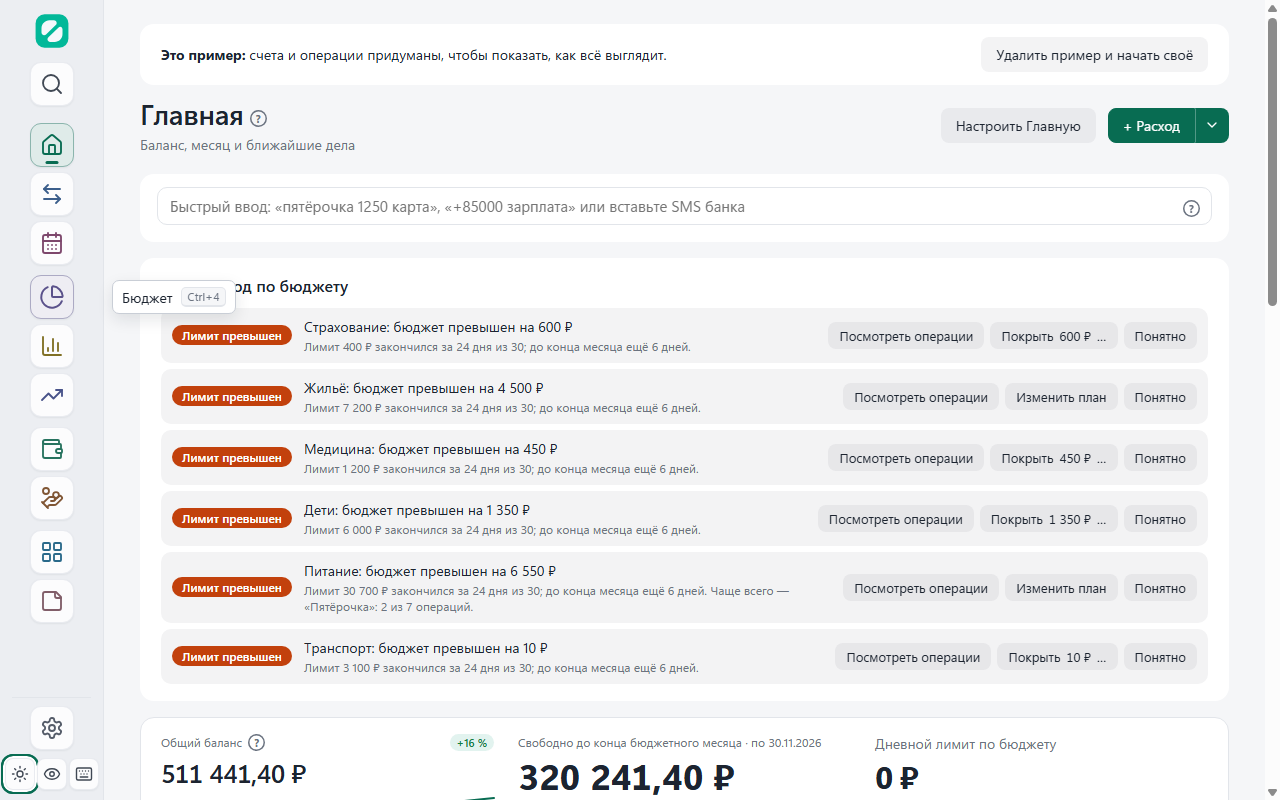
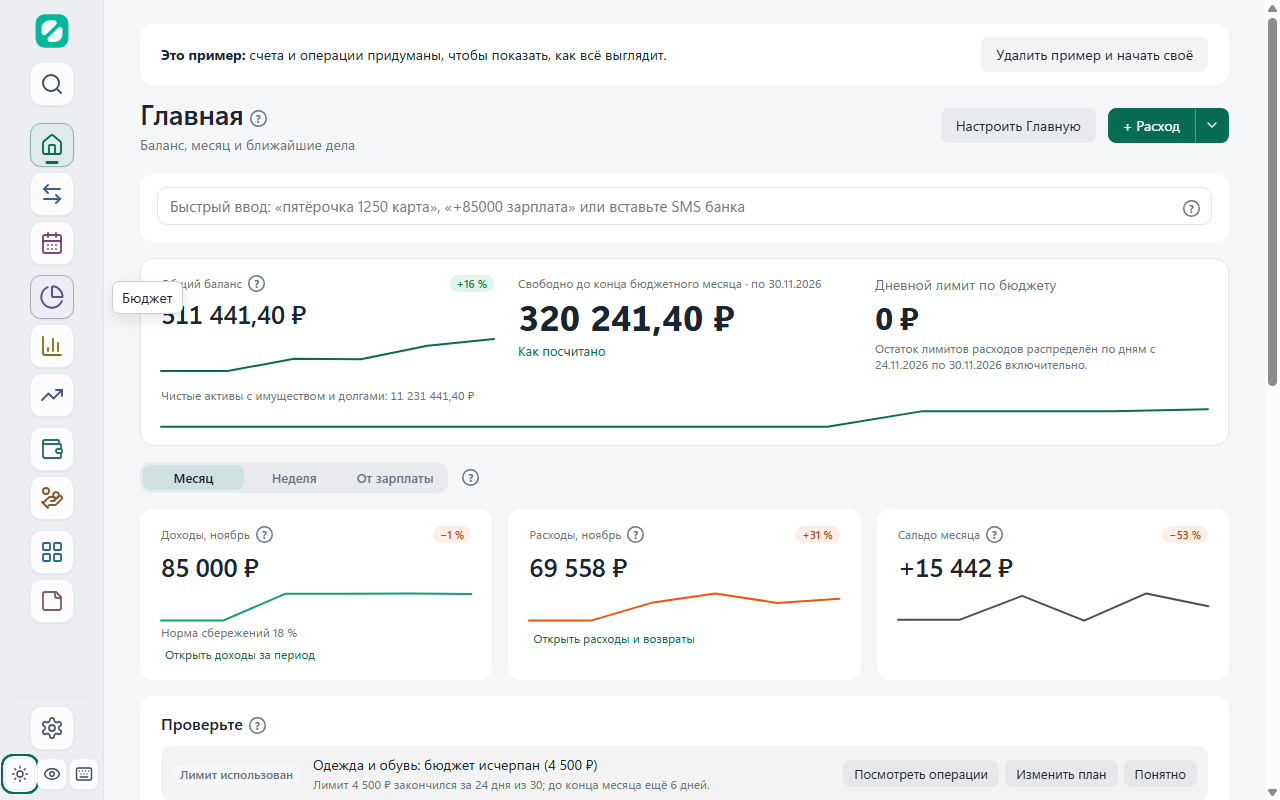
Оставить в подсказках меню только названия

diff --git a/src/components/Sidebar.tsx b/src/components/Sidebar.tsx
@@ -2,7 +2,6 @@ import { useQuery } from "@tanstack/react-query";
 import { ChartColumn, Keyboard, ListFilter, Monitor, Moon, Search, Star, Sun } from "lucide-react";
 import { useEffect, useRef, useState, type CSSProperties } from "react";
 import { api } from "../lib/api";
-import { comboFor, useKeyMap } from "../lib/keymap";
 import { useModules } from "../lib/modules";
 import { isDefaultNav, navSections, useNavPrefs } from "../lib/navLayout";
 import type { Section } from "../lib/sections";
@@ -65,15 +64,14 @@ export function Sidebar() {
   const { section, go, setHelp, setPalette } = useUi();
   const { sectionOn } = useModules();
   const { nav } = useNavPrefs();
-  const keys = useKeyMap();
   const rail = useRef<HTMLElement>(null);
   const shown = navSections(nav, sectionOn);
   const groups = isDefaultNav(nav);
   const settings = shown.find(item => item.id === "settings");
-  const sectionButton = (item: Section, index: number) => (
+  const sectionButton = (item: Section) => (
     <button type="button" className={item.id === section ? "nav-item active" : "nav-item"}
       aria-current={item.id === section ? "page" : undefined} aria-label={item.title}
-      data-section={item.id} data-rail-tip={item.title} data-rail-key={index < 9 ? `Ctrl+${index + 1}` : undefined}
+      data-section={item.id} data-rail-tip={item.title}
       style={{ "--rail-color": item.color } as CSSProperties} onClick={() => go(item.id)}>
       <SectionIcon id={item.id} />
       <span className="sr-only">{item.title}</span>
@@ -82,7 +80,7 @@ export function Sidebar() {
   return (
     <nav ref={rail} className="sidebar app-nav" aria-label="Разделы">
       <Brand iconOnly />
-      <button type="button" className="nav-search" aria-label="Поиск" data-rail-tip="Поиск" data-rail-key={comboFor(keys, "palette")}
+      <button type="button" className="nav-search" aria-label="Поиск" data-rail-tip="Поиск"
         onClick={() => setPalette(true)} data-testid="open-palette">
         <DecorativeIcon icon={Search} />
       </button>
@@ -90,17 +88,17 @@ export function Sidebar() {
         {nav.viewsTop && <NavViews />}
         {shown.filter(item => item.id !== "settings").map((item, i) => (
           <li key={item.id} className={groups && i > 0 && shown[i - 1].group !== item.group ? "nav-break" : undefined}>
-            {sectionButton(item, i)}
+            {sectionButton(item)}
           </li>
         ))}
         {!nav.viewsTop && <NavViews />}
       </ul>
-      {settings && <div className="nav-settings">{sectionButton(settings, shown.indexOf(settings))}</div>}
+      {settings && <div className="nav-settings">{sectionButton(settings)}</div>}
       <div className="sidebar-foot">
         <ThemeSwitch />
-        <HideAmountsSwitch shortcut={comboFor(keys, "hideAmounts")} />
+        <HideAmountsSwitch />
         <button type="button" className="foot-btn" onClick={() => setHelp(true)} aria-label="Горячие клавиши"
-          data-rail-tip="Горячие клавиши" data-rail-key={comboFor(keys, "help")} data-testid="hotkeys-open">
+          data-rail-tip="Горячие клавиши" data-testid="hotkeys-open">
           <DecorativeIcon icon={Keyboard} className="foot-icon" size="control" />
         </button>
       </div>

diff --git a/src/components/Convenience.tsx b/src/components/Convenience.tsx
@@ -86,12 +86,12 @@ export function UndoBar() {
 }
 
 /** Значок «Скрыть суммы» в нижнем ряду меню (Ctrl+H): глаз открыт — суммы видны, перечёркнут — скрыты. */
-export function HideAmountsSwitch({ shortcut }: { shortcut: string }) {
+export function HideAmountsSwitch() {
   const hidden = useSettings().data?.hide_amounts === "1";
   const toggle = useAction(api.setSetting);
   const label = hidden ? "Показать суммы" : "Скрыть суммы";
   return (
-    <button className="foot-btn" role="switch" aria-checked={hidden} aria-label="Скрыть суммы" data-rail-tip={label} data-rail-key={shortcut} data-testid="hide-amounts" onClick={() => toggle.run("hide_amounts", hidden ? "0" : "1")}>
+    <button className="foot-btn" role="switch" aria-checked={hidden} aria-label="Скрыть суммы" data-rail-tip={label} data-testid="hide-amounts" onClick={() => toggle.run("hide_amounts", hidden ? "0" : "1")}>
       {hidden ? <EyeOff className="foot-icon" strokeWidth={1.75} aria-hidden="true" /> : <Eye className="foot-icon" strokeWidth={1.75} aria-hidden="true" />}
     </button>
   );

diff --git a/src/components/sidebar-navigation.css b/src/components/sidebar-navigation.css
@@ -180,9 +180,6 @@
 }
 .rail-tip {
   z-index: 9;
-  display: flex;
-  align-items: center;
-  gap: 8px;
   width: max-content;
   max-width: min(280px, calc(100vw - 16px));
   padding: 6px 9px;
@@ -190,7 +187,6 @@
   overflow-wrap: anywhere;
   pointer-events: auto;
 }
-.rail-tip kbd { color: var(--muted); font: inherit; font-size: .82em; white-space: nowrap; }
 .rail-popover {
   width: max-content;
   min-width: min(11rem, calc(100vw - 16px));

diff --git a/src/components/RailOverlays.tsx b/src/components/RailOverlays.tsx
@@ -93,7 +93,6 @@ export function RailTooltip({ rail }: { rail: RefObject<HTMLElement | null> }) {
   return anchor && createPortal(
     <div className="rail-tip" ref={tip} role="tooltip">
       {anchor.dataset.railTip}
-      {anchor.dataset.railKey && <kbd>{anchor.dataset.railKey}</kbd>}
     </div>, document.body,
   );
 }

diff --git a/docs/project-state.md b/docs/project-state.md
@@ -12,7 +12,7 @@
 
 ## Ближайшая работа
 
-Поверх [№122](https://github.com/Xoma1818/p-treasury/pull/122) подготовлена панель разделов 0.42.3. Переключение темы, скрытие сумм и горячие клавиши собраны по центру внизу. В изолированном Edge проверены семь размеров окна, обе темы, системный контраст, уменьшение движения и подписи при прокрутке с клавиатуры. [Размеры кнопок и состояния](design/README.md#панель-разделов-0423)
+В [№123](https://github.com/Xoma1818/p-treasury/pull/123) поверх [№122](https://github.com/Xoma1818/p-treasury/pull/122) подготовлена панель разделов 0.42.3. Переключение темы, скрытие сумм и горячие клавиши собраны по центру внизу. В изолированном Edge проверены семь размеров окна, обе темы, системный контраст и уменьшение движения. У всех 16 кнопок по наведению и при переходе клавишей Tab появляется только название. Сочетания для поиска, навигации, скрытия сумм и справки проверены отдельно. [Размеры кнопок и состояния](design/README.md#панель-разделов-0423)
 
 В ветке `codex/installer-update-notes-0422` подготовлена версия 0.42.2. Установщик Windows получил русские и английские экраны со знаком Kazna. В «Настройки → О программе» собраны проверка обновлений, настройка проверки при запуске и история выпусков. Путь к базе доступен в «Технических сведениях». Прошли 193 теста интерфейса.
 

diff --git a/docs/decisions.md b/docs/decisions.md
@@ -4,7 +4,7 @@
 
 | Решение | Статус и источник |
 |---|---|
-| В боковом меню Kazna видны только значки. Нижние кнопки выровнены по центру. Образец формы кнопок и отметки открытого раздела — панель задач Windows. | Выбор OTTO по двум снимкам интерфейса, 24.11.2026 |
+| В боковом меню Kazna видны только значки. Подсказка показывает только название кнопки. Нижние кнопки выровнены по центру. Образец формы кнопок и отметки открытого раздела — панель задач Windows. | Выбор OTTO по двум снимкам интерфейса и уточнению о подсказках, 24.11.2026 |
 | Из проведённого дохода или расхода можно создать расписание следующих платежей. Запись из выписки связывается с платежом календаря один раз. | OTTO одобрил демо «Запланировать повтор…», 22.11.2026 |
 | Перерасход можно полностью покрыть свободным месячным лимитом другой категории. Общий план месяца и остатки по счетам сохраняются. | OTTO одобрил демо «Покрыть перерасход», 22.11.2026 |
 | Основная платформа — Windows, локальная база SQLite, русский интерфейс | `product/mvp-features.md`, `architecture/architecture.md` |

diff --git a/docs/design/README.md b/docs/design/README.md
@@ -2,7 +2,7 @@
 
 ## Панель разделов 0.42.3
 
-Панель шириной 104 px оставляет больше места рабочему экрану. В обычной плотности кнопка раздела занимает 44 × 44 px, значок внутри — 24 px. Текущий раздел отмечен короткой полоской под значком. Названия и сочетания клавиш доступны при наведении и с клавиатуры.
+Панель шириной 104 px оставляет больше места рабочему экрану. В обычной плотности кнопка раздела занимает 44 × 44 px, значок внутри — 24 px. Текущий раздел отмечен короткой полоской под значком. При наведении или переходе клавишей Tab появляется только название кнопки.
 
 Тема, скрытие сумм и справка по клавиатуре собраны в нижнем ряду. Плитка остаётся на месте при нажатии, меняется только размер значка. При включённом уменьшении движения выбор виден по цвету и полоске. В узком окне разделы переходят в горизонтальную строку.
 
